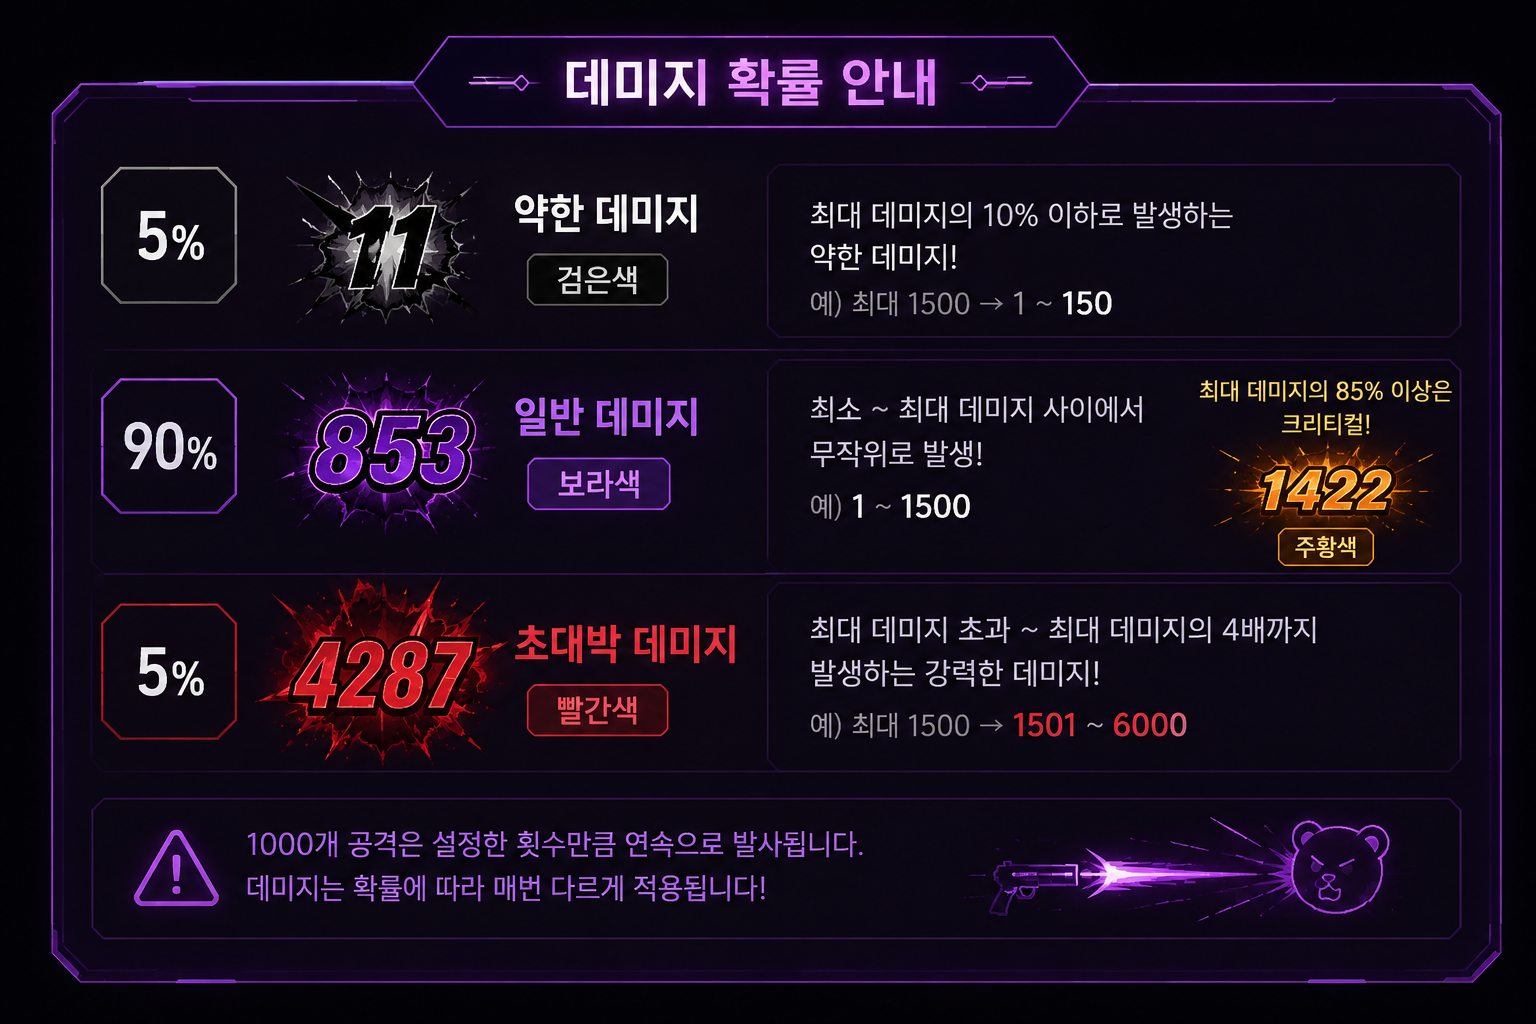
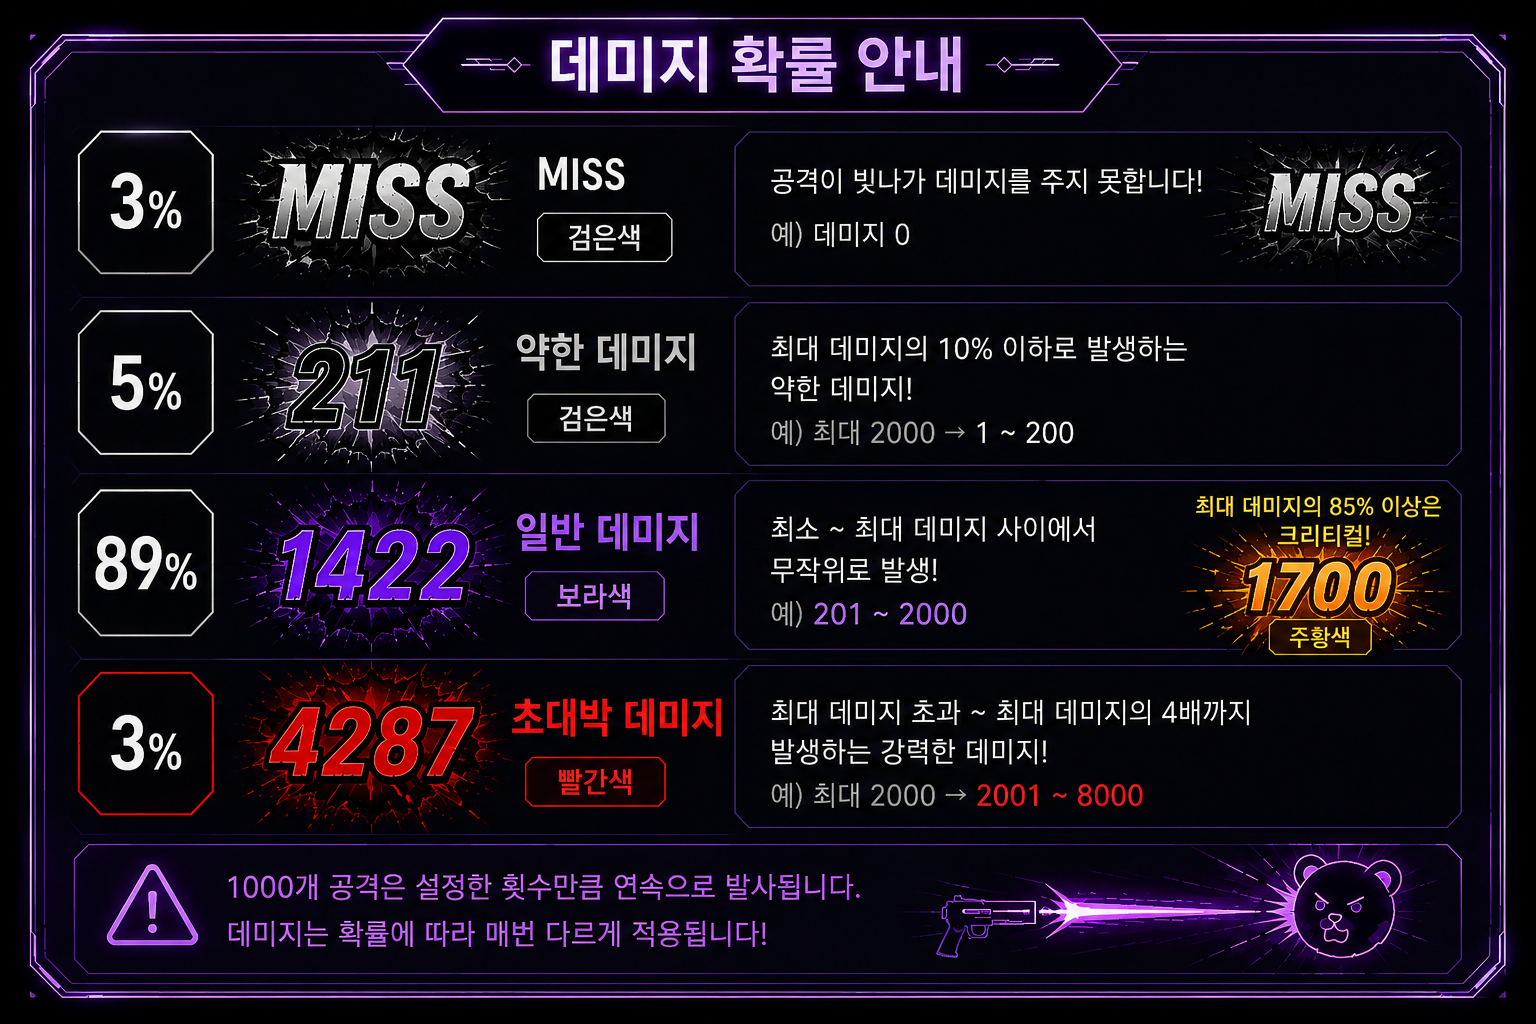
피즐리 업데이트

Changed region(s): [[0.0, 0.0, 1.0, 1.0]]

diff --git a/pizzly/script.js b/pizzly/script.js
@@ -134,37 +134,43 @@ function randomInt(min,max){
 }
 
 // 데미지 등급:
-// 5% 꽝      : 최소 데미지 ~ 최대 데미지의 10% (검은색)
-// 5% 초대박  : 최대 데미지 초과 ~ 최대 데미지의 4배 (빨간색)
-// 90% 일반   : 최대 데미지의 10% 초과 ~ 최대 데미지
-// 일반 중 최대 데미지의 85% 이상은 기존 주황색 크리티컬
+// 3% MISS    : 0 데미지, 보스를 스쳐 지나감
+// 5% 약함    : 최소 데미지 ~ 최대 데미지의 10% (검은색)
+// 89% 일반   : 최대 데미지의 10% 초과 ~ 최대 데미지
+// 3% 초대박  : 최대 데미지 초과 ~ 최대 데미지의 4배 (빨간색)
+// 일반 중 최대 데미지의 85% 이상은 주황색 크리티컬
 function randomDamage(){
   const min=config.minDamage;
   const max=config.maxDamage;
   const roll=Math.random();
-
   const lowUpper=Math.max(min,Math.floor(max*0.10));
 
-  if(roll<0.05){
+  if(roll<0.03){
     return {
-      damage:randomInt(min,lowUpper),
+      damage:0,
       type:'miss'
     };
   }
 
-  if(roll<0.10){
+  if(roll<0.08){
     return {
-      damage:randomInt(max+1,max*4),
-      type:'jackpot'
+      damage:randomInt(min,lowUpper),
+      type:'weak'
     };
   }
 
-  const normalMin=Math.min(max,lowUpper+1);
-  const damage=randomInt(normalMin,max);
+  if(roll<0.97){
+    const normalMin=Math.min(max,lowUpper+1);
+    const damage=randomInt(normalMin,max);
+    return {
+      damage,
+      type:damage>=max*0.85?'critical':'normal'
+    };
+  }
 
   return {
-    damage,
-    type:damage>=max*0.85?'critical':'normal'
+    damage:randomInt(max+1,max*4),
+    type:'jackpot'
   };
 }
 function nickname(){ return $('#nicknameInput').value.trim() || '익명의 시청자'; }
@@ -173,6 +179,7 @@ let audioCtx=null;
 function audio(){ if(!audioCtx) audioCtx=new (window.AudioContext||window.webkitAudioContext)(); return audioCtx; }
 function gunSound(){ try{const c=audio(),t=c.currentTime,o=c.createOscillator(),g=c.createGain(),n=c.createBufferSource(),b=c.createBuffer(1,c.sampleRate*.08,c.sampleRate),d=b.getChannelData(0);for(let i=0;i<d.length;i++)d[i]=(Math.random()*2-1)*(1-i/d.length);n.buffer=b;o.type='square';o.frequency.setValueAtTime(120,t);o.frequency.exponentialRampToValueAtTime(55,t+.08);g.gain.setValueAtTime(.12,t);g.gain.exponentialRampToValueAtTime(.001,t+.1);o.connect(g);n.connect(g);g.connect(c.destination);o.start(t);n.start(t);o.stop(t+.1)}catch{}}
 function hitSound(big=false){try{const c=audio(),t=c.currentTime,o=c.createOscillator(),g=c.createGain();o.type='sawtooth';o.frequency.setValueAtTime(big?90:160,t);o.frequency.exponentialRampToValueAtTime(38,t+.15);g.gain.setValueAtTime(big?.18:.08,t);g.gain.exponentialRampToValueAtTime(.001,t+.18);o.connect(g).connect(c.destination);o.start();o.stop(t+.2)}catch{}}
+function missSound(){try{const c=audio(),t=c.currentTime,o=c.createOscillator(),g=c.createGain();o.type='sine';o.frequency.setValueAtTime(900,t);o.frequency.exponentialRampToValueAtTime(260,t+.22);g.gain.setValueAtTime(.055,t);g.gain.exponentialRampToValueAtTime(.001,t+.24);o.connect(g).connect(c.destination);o.start(t);o.stop(t+.25)}catch{}}
 
 function restartAnimation(el,cls){el.classList.remove(cls);void el.offsetWidth;el.classList.add(cls)}
 function screenShake(heavy=false){restartAnimation(game,heavy?'heavy-shake':'shake')}
@@ -219,27 +226,69 @@ function wait(ms){ return new Promise(resolve=>setTimeout(resolve,ms)); }
 async function animateShot(result, attacker){
   const {damage,type}=result;
   if(dead)return;
+
+  const isMiss=type==='miss';
   const gw=game.clientWidth,gh=game.clientHeight;
-  const startX=gw*.275,startY=gh*(.515+Math.random()*.035),hitX=gw*(.74+Math.random()*.09),hitY=gh*(.43+Math.random()*.22);
+  const startX=gw*.275,startY=gh*(.515+Math.random()*.035);
+
+  // MISS는 보스 위나 옆을 스쳐 지나가게 조정
+  const hitX=isMiss
+    ? gw*(.91+Math.random()*.07)
+    : gw*(.74+Math.random()*.09);
+  const hitY=isMiss
+    ? gh*(Math.random()<.5 ? .28+Math.random()*.10 : .70+Math.random()*.09)
+    : gh*(.43+Math.random()*.22);
+
   setSprite(bombing,SPRITES.bombingAttack);
   await wait(160);
   if(dead)return;
+
   setSprite(bombing,SPRITES.bombingShoot);
-  restartAnimation(bombing,'fire');restartAnimation(muzzle,'on');gunSound();muzzleBurst(startX,startY);screenShake(false);
-  const bullet=document.createElement('div');bullet.className='bullet';bullet.style.left=`${startX}px`;bullet.style.top=`${startY}px`;bullet.style.width=`${Math.max(90,(hitX-startX)*.2)}px`;bullet.style.setProperty('--travel',`${hitX-startX}px`);fxLayer.appendChild(bullet);
+  restartAnimation(bombing,'fire');
+  restartAnimation(muzzle,'on');
+  gunSound();
+  muzzleBurst(startX,startY);
+  screenShake(false);
+
+  const bullet=document.createElement('div');
+  bullet.className=`bullet${isMiss?' miss-bullet':''}`;
+  bullet.style.left=`${startX}px`;
+  bullet.style.top=`${startY}px`;
+  bullet.style.width=`${Math.max(90,(hitX-startX)*.2)}px`;
+  bullet.style.setProperty('--travel',`${hitX-startX}px`);
+  bullet.style.setProperty('--rise',`${hitY-startY}px`);
+  fxLayer.appendChild(bullet);
+
   await wait(110);
   if(!dead)setSprite(bombing,SPRITES.bombingIdle);
-  bullet.remove(); if(dead)return;
+  bullet.remove();
+  if(dead)return;
+
+  if(isMiss){
+    const miss=document.createElement('div');
+    miss.className='damage miss';
+    miss.textContent='MISS';
+    miss.style.left=`${gw*(.77+Math.random()*.08)}px`;
+    miss.style.top=`${gh*(.36+Math.random()*.18)}px`;
+    fxLayer.appendChild(miss);
+
+    missSound();
+    lastAttack.textContent=`${attacker} · MISS`;
+    setTimeout(()=>miss.remove(),1150);
+    await wait(Math.max(80,config.shotInterval-150));
+    return;
+  }
+
   const defendedDamage=applyBossDefense(damage);
   const actual=Math.min(defendedDamage,currentHp);
   const isCritical=type==='critical';
   const isJackpot=type==='jackpot';
-  const isMiss=type==='miss';
+  const isWeak=type==='weak';
   const isBig=isCritical||isJackpot;
   const isKill=defendedDamage>=currentHp;
 
   const impact=document.createElement('div');
-  impact.className=`impact${isJackpot?' jackpot-impact':''}${isMiss?' miss-impact':''}`;
+  impact.className=`impact${isJackpot?' jackpot-impact':''}${isWeak?' weak-impact':''}`;
   impact.style.left=`${hitX-18}px`;
   impact.style.top=`${hitY-18}px`;
   fxLayer.appendChild(impact);
@@ -251,16 +300,25 @@ async function animateShot(result, attacker){
   num.style.top=`${hitY}px`;
   fxLayer.appendChild(num);
 
-  sparks(hitX,hitY,isJackpot?24:isCritical?15:isMiss?4:8);
+  sparks(hitX,hitY,isJackpot?24:isCritical?15:isWeak?5:8);
   setSprite(boss,SPRITES.bossHit);
   restartAnimation(boss,'hit');
   setTimeout(()=>{if(!dead)setSprite(boss,SPRITES.bossIdle)},190);
   screenShake(isJackpot||isCritical);
   hitSound(isJackpot||isCritical);
   addCombo();
-  updateHp(currentHp-actual);lastAttack.textContent=`${attacker} · ${actual.toLocaleString()} DAMAGE`;
-  setTimeout(()=>impact.remove(),420);setTimeout(()=>num.remove(),1150);
-  if(currentHp<=0){defeatBoss(attacker,actual);return;}
+
+  updateHp(currentHp-actual);
+  lastAttack.textContent=`${attacker} · ${actual.toLocaleString()} DAMAGE`;
+
+  setTimeout(()=>impact.remove(),420);
+  setTimeout(()=>num.remove(),1150);
+
+  if(currentHp<=0){
+    defeatBoss(attacker,actual);
+    return;
+  }
+
   await wait(Math.max(80,config.shotInterval-150));
 }
 

diff --git a/pizzly/style.css b/pizzly/style.css
@@ -232,10 +232,12 @@ button,input{font:inherit}.game{position:relative;width:min(100vw,177.777vh);asp
 }
 
 .damage.miss{
-  color:#111;
-  font-size:clamp(25px,2.8vw,54px);
-  -webkit-text-stroke:2px #949494;
-  text-shadow:0 2px #000,0 0 7px #fff,0 7px 14px #000;
+  color:#f0f0f0;
+  font-size:clamp(42px,5.4vw,106px);
+  letter-spacing:.08em;
+  -webkit-text-stroke:2px #111;
+  text-shadow:0 4px #050505,0 0 10px #fff8,0 8px 18px #000;
+  animation:missFloat 1.05s ease-out forwards;
 }
 
 .damage.jackpot{
@@ -388,4 +390,31 @@ button,input{font:inherit}.game{position:relative;width:min(100vw,177.777vh);asp
 }
 .game.final-phase-active .hp-shell{
   box-shadow:0 0 24px #ff4a2b88;
+}
+
+
+/* ===== 3% MISS / 5% 약한 데미지 ===== */
+.damage.weak{
+  color:#111;
+  font-size:clamp(25px,2.8vw,54px);
+  -webkit-text-stroke:2px #9d9d9d;
+  text-shadow:0 2px #000,0 0 7px #fff,0 7px 14px #000;
+}
+.weak-impact{
+  border-color:#777;
+  box-shadow:0 0 16px #aaa;
+  opacity:.58;
+}
+@keyframes missFloat{
+  0%{transform:translate(-50%,4px) scale(.35) rotate(-5deg);opacity:0}
+  18%{transform:translate(-50%,-8px) scale(1.18) rotate(3deg);opacity:1}
+  38%{transform:translate(-50%,-26px) scale(1) rotate(-1deg);opacity:1}
+  100%{transform:translate(-50%,-115px) scale(.9);opacity:0}
+}
+.bullet.miss-bullet{
+  animation:missBulletFly .18s linear forwards;
+}
+@keyframes missBulletFly{
+  from{transform:translate(0,0) scaleX(.2);opacity:.2}
+  to{transform:translate(var(--travel),var(--rise)) scaleX(1);opacity:1}
 }

diff --git a/pizzly/index.html b/pizzly/index.html
@@ -70,7 +70,7 @@
         <label>1000개 공격 횟수<input id="multiCountInput" type="number" min="1" max="100" value="11" /></label>
         <label>연사 간격(ms)<input id="shotIntervalInput" type="number" min="50" max="2000" value="240" /></label>
         <div class="settings-actions"><button id="applySettingsBtn">적용·보스 초기화</button><button id="healBtn">체력만 회복</button></div>
-        <small>5% 꽝·5% 초대박(최대 4배)·90% 일반 랜덤</small>
+        <small>3% MISS·5% 약한 데미지·89% 일반·3% 초대박</small>
       </div>
     </aside>
 
